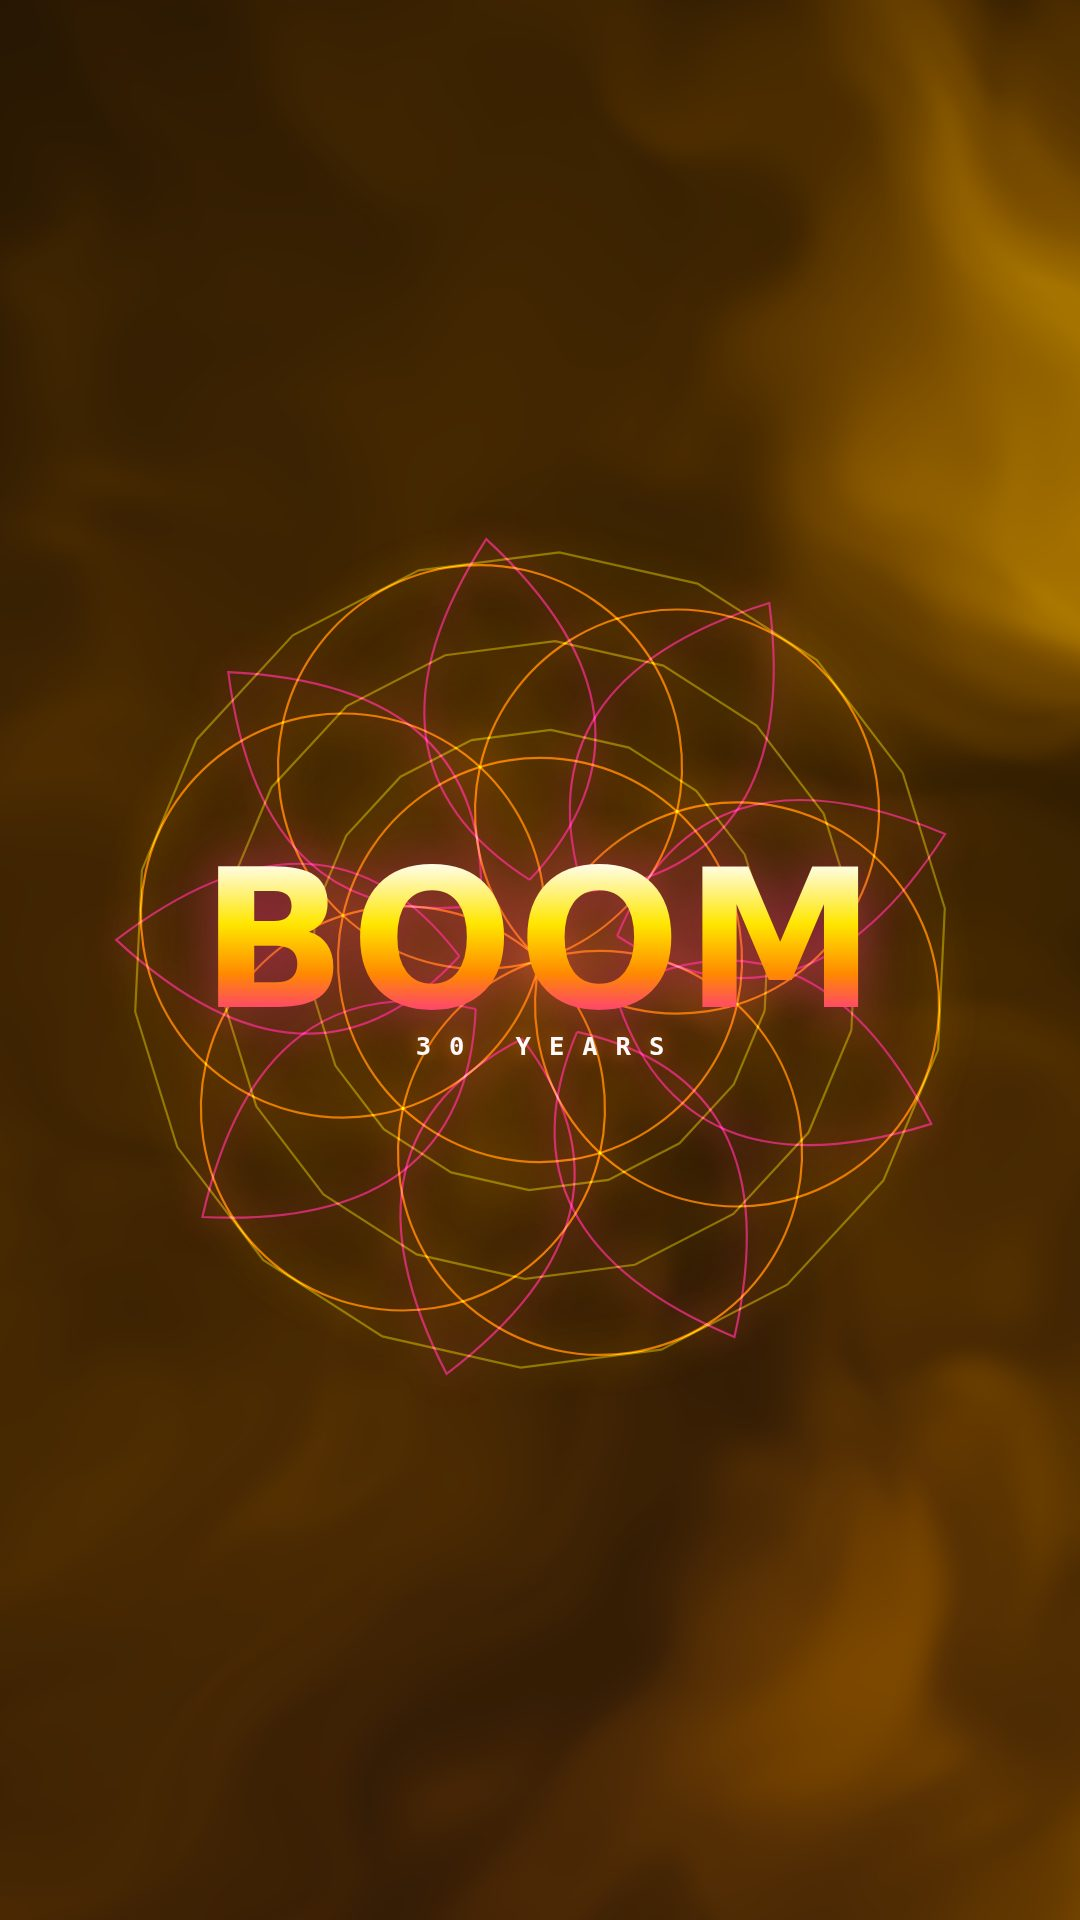
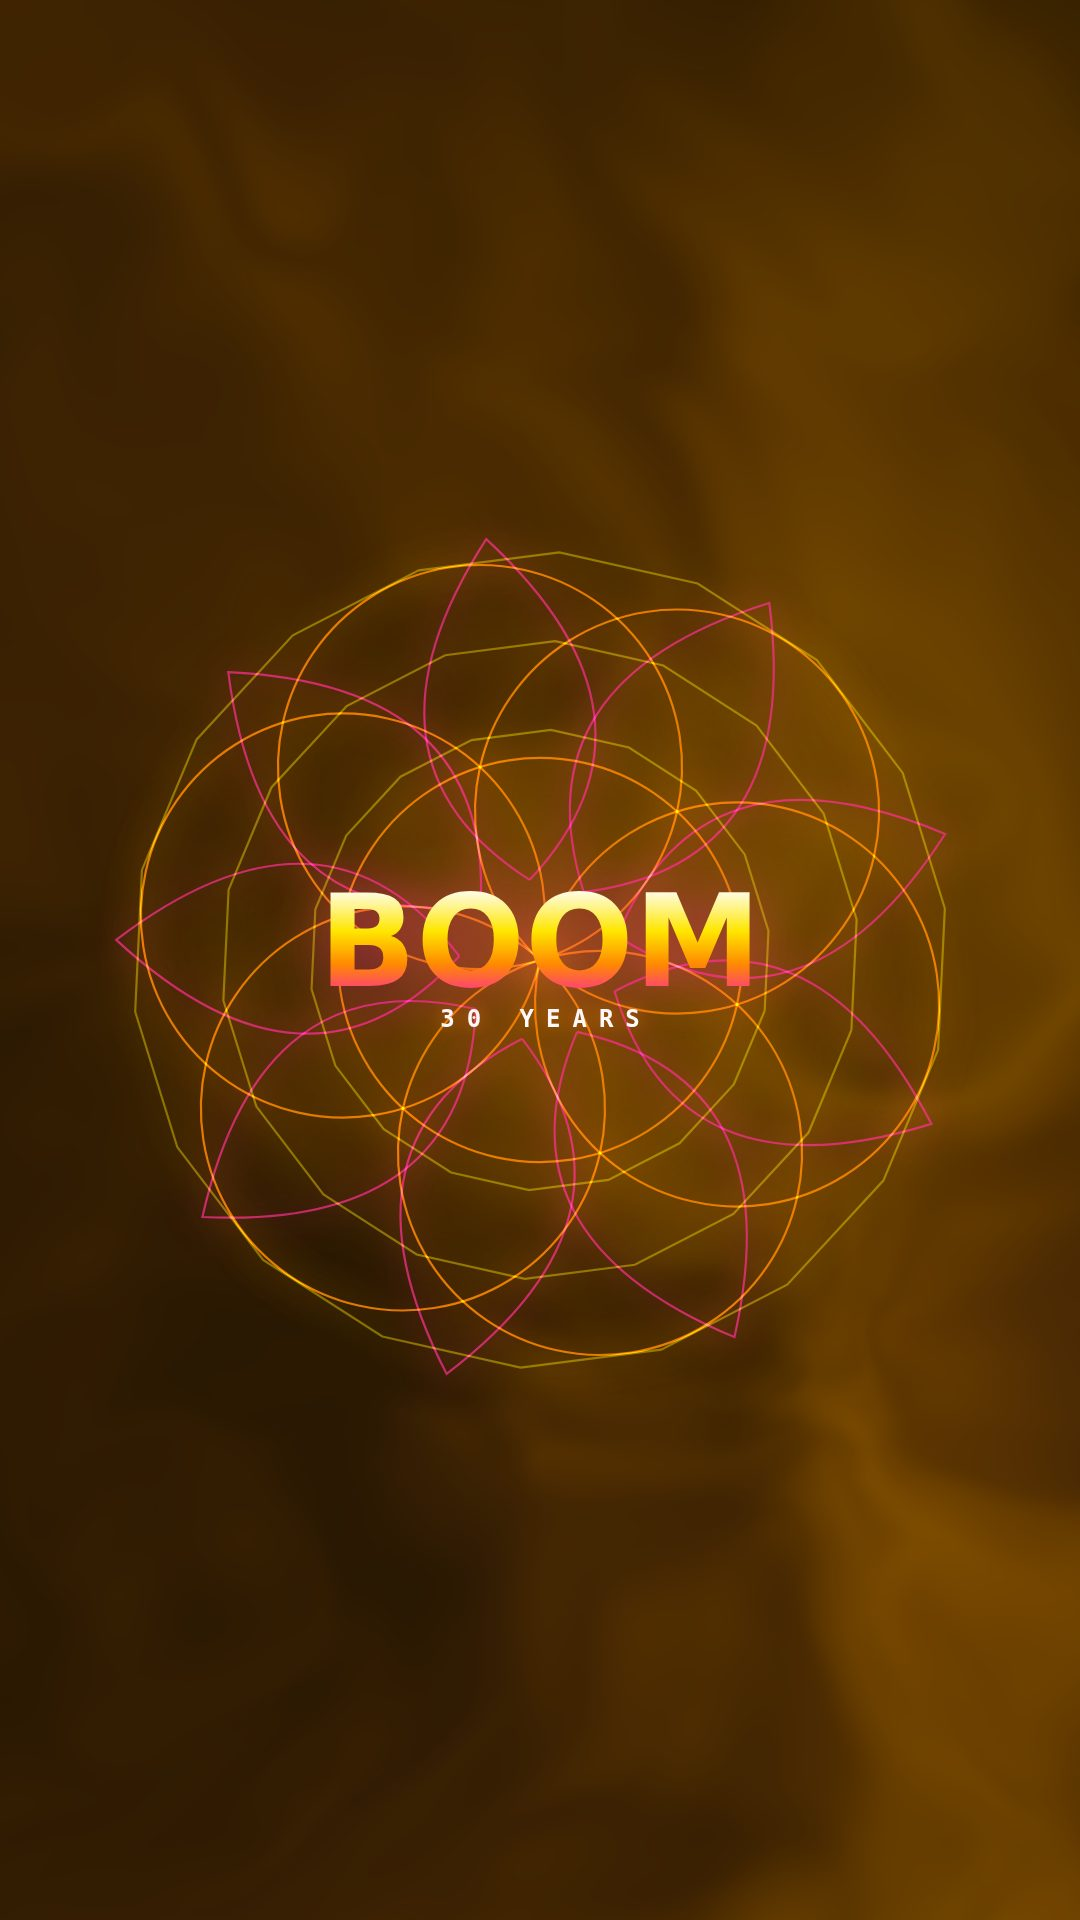
Fix BOOM overflow, always-on pulse, smoke motion, closing story
- Headings sized in container (cq) units with #stage as a query container, so
  "BOOM" and the other titles scale to the stage box and no longer clip on the
  desktop column or with the wider live Orbitron font.
- Visual pulse is now always on: the deterministic synth pulse is a permanent
  floor and live music energy adds on top (was music-only when playing).
- Plasma is advected by a drifting, amp-billowing flow so the field physically
  moves like smoke; flow uses integer harmonics of the uTime wrap so it loops
  seamlessly and stays mediump-safe.
- Reuse the uploaded animations-v2.jsx: lifted its framework-agnostic Easing +
  interpolate helpers and use them for the mandala bloom and full-moon fade.
- New closing beat: the full Boom Festival story in a readable, scrollable,
  scrim-backed panel; moved "tap to replay" onto it. verify.mjs covers 8 beats.

Claude-Session: https://claude.ai/code/session_01TjsaRnbSoxGqaDk2UhQNBV

diff --git a/index.html b/index.html
@@ -37,6 +37,7 @@
      wide screens get a centered portrait column. */
   #stage{
     position:fixed; inset:0; overflow:hidden; background:#05030a;
+    container-type:size; container-name:stage;   /* text sizes in cq units scale to the stage box */
   }
   @media (min-aspect-ratio: 9/16){
     #stage{
@@ -73,7 +74,7 @@
     display:flex; align-items:center; justify-content:center; }
   .beat{
     position:absolute; left:0; right:0;
-    padding:0 8vmin; text-align:center;
+    padding:0 6cqw; text-align:center;
     opacity:0; transform:translateY(2.2rem) scale(.96); filter:blur(8px);
     transition:opacity .9s ease, transform 1.1s cubic-bezier(.2,.8,.2,1), filter 1s ease;
     will-change:opacity,transform,filter;
@@ -82,41 +83,53 @@
 
   .boom{
     font-family:var(--display); font-weight:900;
-    font-size:clamp(3.6rem, 22vmin, 12rem); line-height:.86; letter-spacing:.02em;
+    font-size:clamp(2.5rem, 16cqw, 8rem); line-height:.86; letter-spacing:0;
     background:linear-gradient(180deg,#fff, #ffe600 40%, #ff8a00 70%, #ff2d95);
     -webkit-background-clip:text; background-clip:text; color:transparent;
     filter:drop-shadow(0 0 28px #ff2d9577);
   }
   .years{ font-family:var(--mono); font-weight:700; margin-top:.5rem;
-    font-size:clamp(.9rem,4.5vmin,1.6rem); letter-spacing:.7em; text-indent:.7em;
+    font-size:clamp(.85rem,3.4cqw,1.5rem); letter-spacing:.5em; text-indent:.5em;
     color:#fff; text-shadow:0 0 18px #ff8a00aa; }
 
   .dates{ font-family:var(--display); font-weight:900;
-    font-size:clamp(1.8rem,9vmin,4.5rem); letter-spacing:.03em;
+    font-size:clamp(1.25rem,7cqw,3.8rem); letter-spacing:.02em;
     text-shadow:0 0 26px #00d0a0aa, 0 0 60px #ffffff55; }
   .sub{ margin-top:1rem; opacity:.85; }
   .mono{ font-family:var(--mono); }
 
   .personal{ font-family:var(--display); font-weight:700;
-    font-size:clamp(1.4rem,6.8vmin,3rem); line-height:1.25;
+    font-size:clamp(1.05rem,5cqw,2.6rem); line-height:1.3;
     text-shadow:0 0 24px #ff00c8aa; }
 
   .urgency{ font-weight:700; line-height:2;
-    font-size:clamp(.85rem,4.2vmin,1.35rem); letter-spacing:.18em;
+    font-size:clamp(.72rem,3cqw,1.2rem); letter-spacing:.12em;
     color:#ffe600; text-shadow:0 0 16px #ff8a00cc; }
 
   .cta-title{ font-family:var(--mono); font-weight:700;
-    font-size:clamp(1.1rem,5.5vmin,2rem); letter-spacing:.4em; text-indent:.4em;
+    font-size:clamp(.95rem,4cqw,1.9rem); letter-spacing:.3em; text-indent:.3em;
     text-shadow:0 0 20px #ff2d95cc; }
 
   .sign{ font-family:var(--display); font-weight:900;
-    font-size:clamp(2.2rem,11vmin,5rem);
+    font-size:clamp(1.7rem,9cqw,4.6rem);
     background:linear-gradient(120deg,#ff2d95,#ff8a00,#ffe600);
     -webkit-background-clip:text; background-clip:text; color:transparent;
     filter:drop-shadow(0 0 22px #ff8a0066); }
-  .place{ margin-top:.8rem; letter-spacing:.35em; text-indent:.35em; opacity:.9;
-    font-size:clamp(.75rem,3.6vmin,1.1rem); }
+  .place{ margin-top:.8rem; letter-spacing:.25em; text-indent:.25em; opacity:.9;
+    font-size:clamp(.68rem,2.8cqw,1.05rem); }
   .replay{ margin-top:2.4rem; opacity:.5; letter-spacing:.3em; font-size:.75rem; }
+
+  /* closing story paragraph — readable, scrollable, legible over the moving smoke */
+  .story{
+    font-family:var(--mono); text-align:left; max-width:34em; margin:0 auto;
+    max-height:60cqh; overflow-y:auto; -webkit-overflow-scrolling:touch;
+    font-size:clamp(.72rem,3.3cqw,1.02rem); line-height:1.7; color:#f3e9ff;
+    background:rgba(4,2,9,.8); backdrop-filter:blur(5px); -webkit-backdrop-filter:blur(5px);
+    border:1px solid #ffffff26; border-radius:14px; padding:1.3em 1.4em;
+    box-shadow:0 10px 40px #000000aa; text-shadow:0 1px 3px #000000cc;
+  }
+  .story p{ margin:0 0 .9em; }
+  .story .replay{ text-align:center; margin:1.2rem 0 0; }
 
   /* persistent save-the-date footer (from CTA beat onward) */
   #cta-footer{
@@ -128,7 +141,7 @@
   #cta-footer.show{ opacity:1; transform:none; pointer-events:auto; }
   #cta-footer .row{ display:flex; gap:.7rem; flex-wrap:wrap; justify-content:center; }
   .btn{
-    font-family:var(--mono); font-weight:700; font-size:clamp(.8rem,3.6vmin,1rem);
+    font-family:var(--mono); font-weight:700; font-size:clamp(.78rem,3.2cqw,1rem);
     letter-spacing:.05em; color:#0a0010; cursor:pointer;
     border:0; border-radius:999px; padding:.85em 1.4em;
     background:linear-gradient(120deg,#ffe600,#ff8a00);
@@ -142,15 +155,15 @@
     position:absolute; inset:0; z-index:10; cursor:pointer;
     display:flex; flex-direction:column; align-items:center; justify-content:center; gap:1.2rem;
     background:radial-gradient(60% 60% at 50% 45%, #0b0618cc, #04020acc 70%, #000 100%);
-    transition:opacity .7s ease; text-align:center; padding:0 10vmin;
+    transition:opacity .7s ease; text-align:center; padding:0 8cqw;
   }
   #gate.hide{ opacity:0; pointer-events:none; }
   #gate .play{ font-family:var(--display); font-weight:900; letter-spacing:.05em;
-    font-size:clamp(1.4rem,8vmin,3rem);
+    font-size:clamp(1.3rem,7cqw,3rem);
     background:linear-gradient(120deg,#ff2d95,#ff8a00,#ffe600);
     -webkit-background-clip:text; background-clip:text; color:transparent;
     animation:pulse 1.8s ease-in-out infinite; }
-  #gate .hint{ font-family:var(--mono); font-size:clamp(.7rem,3.4vmin,.95rem);
+  #gate .hint{ font-family:var(--mono); font-size:clamp(.68rem,3cqw,.95rem);
     letter-spacing:.25em; opacity:.7; line-height:2; }
   @keyframes pulse{ 0%,100%{ transform:scale(1); opacity:.9 } 50%{ transform:scale(1.06); opacity:1 } }
 
@@ -210,7 +223,15 @@
     <div class="beat" data-beat="6">
       <div class="sign">Yolan's 30th</div>
       <div class="place mono">Idanha-a-Nova · Portugal</div>
-      <div class="replay mono">tap to replay</div>
+    </div>
+    <div class="beat" data-beat="7">
+      <div class="story mono">
+        <p>Boom Festival is Portugal's legendary biennial gathering — born in 1997 and held every two years since on the banks of the Marechal Carmona Dam in Idanha-a-Nova, it's far more than a music event, blending psychedelic and psytrance sound with immersive art, sustainability innovation and a community-driven ethos, all run with zero commercial branding and famously free of corporate sponsors.</p>
+        <p>The next edition runs 18 to 25 July 2027, under a full moon, and marks 30 years of cosmic psychedelic dancing — landing in the very same year I turn 30, which makes it non-negotiable.</p>
+        <p>Come mentally prepared for a full week of camping under the blazing Alentejo sun (July temperatures can top 40°C), sunrise sets and communal ritual, so pack light, hydrate hard, and be ready to properly disconnect.</p>
+        <p>One catch: Boom has been selling out since 2014, historically within hours, and ticket sales open after summer 2026 — so if you're in, lock it in your calendar now, because this one only comes around every two years and this edition is the big one.</p>
+        <div class="replay">▶ tap to replay</div>
+      </div>
     </div>
   </div>
 
@@ -269,6 +290,7 @@ const CONFIG = {
     { id:'urgency',  dur:5 },
     { id:'cta',      dur:6 },
     { id:'signoff',  dur:5 },
+    { id:'story',    dur:14 },   // the full read; the arc holds here at the end
   ],
 };
 
@@ -291,6 +313,30 @@ const hexToRgb01 = h => {
   const n = parseInt(h.slice(1), 16);
   return [ (n>>16 & 255)/255, (n>>8 & 255)/255, (n & 255)/255 ];
 };
+
+// Easing + interpolate lifted from the uploaded animations-v2.jsx (framework-agnostic
+// bits; the rest of that file is a React/host-bound scene engine that can't run here).
+const Easing = {
+  easeOutCubic:   t => (--t) * t * t + 1,
+  easeInOutCubic: t => (t < 0.5 ? 4*t*t*t : (t-1)*(2*t-2)*(2*t-2) + 1),
+  easeInOutSine:  t => -(Math.cos(Math.PI * t) - 1) / 2,
+  easeOutBack:    t => { const c1 = 1.70158, c3 = c1 + 1; return 1 + c3*Math.pow(t-1,3) + c1*Math.pow(t-1,2); },
+};
+// interpolate([0,.5,1], [0,1,0], ease?) -> fn(t): maps t across keyframes to output values.
+function interpolate(input, output, ease = (t=>t)){
+  return t => {
+    if (t <= input[0]) return output[0];
+    if (t >= input[input.length-1]) return output[output.length-1];
+    for (let i = 0; i < input.length-1; i++){
+      if (t >= input[i] && t <= input[i+1]){
+        const span = input[i+1] - input[i];
+        const local = span === 0 ? 0 : (t - input[i]) / span;
+        return output[i] + (output[i+1] - output[i]) * ease(local);
+      }
+    }
+    return output[output.length-1];
+  };
+}
 
 const reducedMotion = matchMedia('(prefers-reduced-motion: reduce)').matches;
 if (params.has('clean')) document.body.classList.add('clean');
@@ -411,12 +457,16 @@ const plasma = (() => {
       vec2 uv = (gl_FragCoord.xy - 0.5 * uRes) / uRes.y;
       uv += uTilt * 0.15;
       uv += uSmear * 0.6;
-      float t = uTime * 0.06;
-      // domain-warped fbm (iq)
-      vec2 q = vec2(fbm(uv + t), fbm(uv + vec2(5.2, 1.3)));
-      vec2 r = vec2(fbm(uv + 2.0 * q + vec2(1.7, 9.2) + 0.15 * t),
-                    fbm(uv + 2.0 * q + vec2(8.3, 2.8) + 0.12 * t));
-      float f = fbm(uv + 2.0 * r);
+      // domain-warped fbm advected by a drifting flow → the field physically moves like
+      // billowing smoke. Flow uses only integer harmonics of the 60s uTime wrap, so it loops
+      // seamlessly (no reshuffle at the wrap) and stays small (mediump-safe).
+      float w = uTime * 6.2831853 / 60.0;
+      vec2 flow = 0.18 * vec2(sin(w), 1.25 * cos(w)) + 0.10 * vec2(cos(2.0 * w), sin(2.0 * w));
+      flow *= 1.0 + 0.25 * uAmp;                       // billows on the pulse
+      vec2 q = vec2(fbm(uv + flow), fbm(uv + vec2(5.2, 1.3) + flow * 0.7));
+      vec2 r = vec2(fbm(uv + 1.8 * q + vec2(1.7, 9.2) + flow.yx * 1.3),
+                    fbm(uv + 1.8 * q + vec2(8.3, 2.8) - flow * 1.1));
+      float f = fbm(uv + 1.8 * r + flow * 1.5);
       float d = length(uv - uPointer * 0.5);
       f += 0.10 * exp(-d * 3.0);                       // pointer glow
       float shade = smoothstep(0.12, 0.9, f + 0.3 * length(r));
@@ -485,7 +535,7 @@ const mandala = (() => {
     const cx = W / 2, cy = H / 2;
     const base = Math.min(W, H);
     // bloom: single point in ignition, grows into the full mandala
-    const bloom = state.started ? clamp(state.sceneTime / BEATS[IDX.boom].start, 0, 1) : 0.0;
+    const bloom = state.started ? Easing.easeOutCubic(clamp(state.sceneTime / BEATS[IDX.boom].start, 0, 1)) : 0.0;
     if (bloom <= 0.001){
       // the seed spark
       const g = ctx.createRadialGradient(cx, cy, 0, cx, cy, base * 0.08);
@@ -534,7 +584,8 @@ const mandala = (() => {
 
     // full-moon accent during the DATES beat
     const moon = state.beat === IDX.dates
-      ? Math.sin(clamp((state.sceneTime - BEATS[IDX.dates].start) / BEATS[IDX.dates].dur, 0, 1) * Math.PI)
+      ? interpolate([0, 0.5, 1], [0, 1, 0], Easing.easeInOutSine)(
+          clamp((state.sceneTime - BEATS[IDX.dates].start) / BEATS[IDX.dates].dur, 0, 1))
       : 0;
     if (moon > 0.01){
       const mx = cx, my = cy - base * 0.28, mr = base * 0.12;
@@ -830,7 +881,10 @@ function frame(now){
   state.sceneTime   = narrativeAt(now);
 
   // amp: live audio energy, else deterministic pulse
-  state.amp = lerp(state.amp, audio.live ? audio.readAmp() : synthPulse(state.ambientTime), 0.35);
+  // pump is always on: deterministic synth pulse is the floor, live music energy adds on top
+  const pulse = synthPulse(state.ambientTime);
+  const live  = audio.live ? audio.readAmp() : 0;
+  state.amp = lerp(state.amp, Math.max(pulse, live), 0.35);
 
   // smooth tilt, decay smear
   state.tilt.x = lerp(state.tilt.x, state.tiltTarget.x, 0.08);
